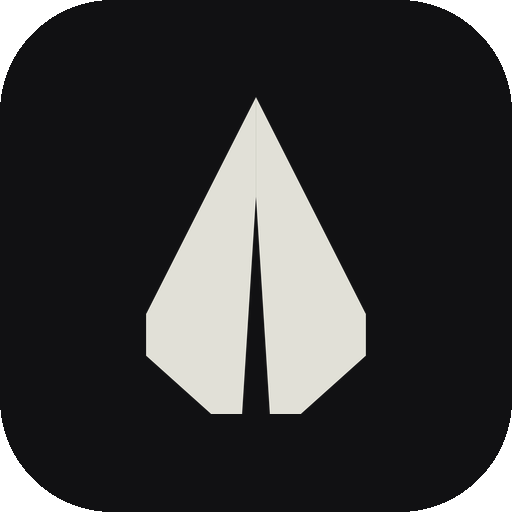
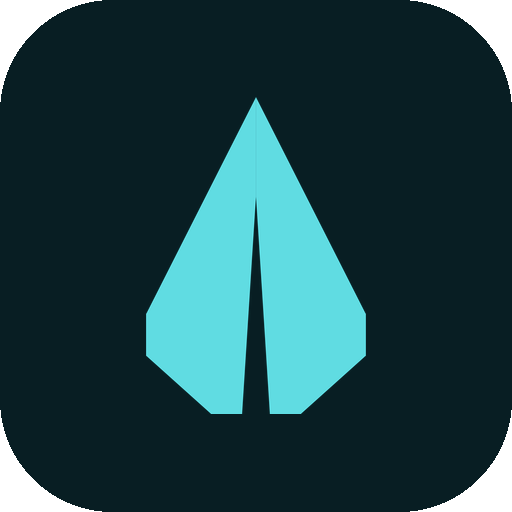
Neue Markenfarbpalette: BG #081e23, Cyan-Akzent #60dce2, Creme-Text #e1e0d7, Rot-Akzent #ED3421

Changed region(s): [[0.2812, 0.1875, 0.7188, 0.8125]]

diff --git a/assets/index-BAcUKQGq.css b/assets/index-BAcUKQGq.css
@@ -1,0 +1,1 @@
+:root{--bg:#081e23;--bg-panel:#0f2b32;--bg-input:#0c252b;--border:#1c3d44;--text:#e1e0d7;--text-dim:#7f9599;--accent:#60dce2;--accent-active:#45b3b9;--accent-dim:#1f4d52;--danger:#ed3421;--danger-active:#c72a1a;--font-brand:"Bebas Neue", "Arial Narrow", sans-serif;--lightningcss-light: ;--lightningcss-dark:initial;color-scheme:dark}*{box-sizing:border-box;-webkit-tap-highlight-color:transparent}html,body,#root{height:100%}body{background:var(--bg);color:var(--text);overscroll-behavior:none;-webkit-user-select:none;user-select:none;margin:0;font-family:-apple-system,BlinkMacSystemFont,Segoe UI,Roboto,Helvetica,Arial,sans-serif}.app{max-width:480px;min-height:100dvh;padding:env(safe-area-inset-top,16px) 16px calc(env(safe-area-inset-bottom,16px) + 16px);flex-direction:column;margin:0 auto;display:flex}.header{justify-content:space-between;align-items:center;padding:8px 4px 20px;display:flex}.header h1{font-family:var(--font-brand);letter-spacing:.1em;text-transform:uppercase;color:var(--text-dim);margin:0;font-size:19px;font-weight:400}.header-brand{align-items:center;gap:9px;display:flex}.header-logo{width:auto;height:22px;display:block}.icon-btn{color:var(--text-dim);cursor:pointer;background:0 0;border:none;padding:6px;font-size:20px}.icon-btn:active{color:var(--accent)}.display{background:var(--bg-panel);border:1px solid var(--border);text-align:center;border-radius:14px;margin-bottom:16px;padding:28px 16px}.display .status-row{justify-content:center;align-items:center;min-height:16px;margin-bottom:10px;display:flex;position:relative}.display .status{letter-spacing:.15em;text-transform:uppercase;color:var(--text-dim);font-size:12px}.display .arm-countdown{color:var(--accent);letter-spacing:.02em;font-family:SF Mono,Roboto Mono,Menlo,monospace;font-size:11px;position:absolute;top:0;right:0}.display .time{color:var(--accent);letter-spacing:.02em;text-shadow:0 0 18px #60dce259;font-family:SF Mono,Roboto Mono,Menlo,monospace;font-size:56px;font-weight:600;line-height:1.1}.display .sub{color:var(--text-dim);margin-top:8px;font-family:SF Mono,Roboto Mono,Menlo,monospace;font-size:13px}.waveform-panel{background:var(--bg-panel);border:1px solid var(--border);box-sizing:border-box;border-radius:14px;height:92px;margin-bottom:16px;padding:12px 14px 8px}.waveform-empty{text-align:center;width:100%;height:100%;color:var(--text-dim);justify-content:center;align-items:center;font-size:12px;display:flex}.waveform-bars{align-items:flex-end;gap:3px;width:100%;height:100%;display:flex;overflow:hidden}.wave-bar-col{flex-direction:column;flex:1 0 auto;justify-content:flex-end;align-items:center;gap:4px;height:100%;display:flex}.wave-bar{background:#60dce252;border-radius:2px 2px 0 0;width:5px;min-height:4px}.wave-bar.shot{background:var(--accent);box-shadow:0 0 7px #60dce2a6}.wave-bar.draw{background:var(--text-dim);box-shadow:0 0 5px #7f959980}.wave-dot{background:0 0;border-radius:50%;width:4px;height:4px}.wave-dot.on{background:var(--accent)}.wave-dot.on-draw{background:var(--text-dim)}.splits{background:var(--bg-panel);border:1px solid var(--border);border-radius:14px;max-height:220px;margin-bottom:16px;padding:4px 0;overflow-y:auto}.splits.empty{text-align:center;color:var(--text-dim);padding:22px;font-size:13px}.split-row{border-bottom:1px solid var(--border);cursor:pointer;justify-content:space-between;padding:10px 16px;font-family:SF Mono,Roboto Mono,Menlo,monospace;font-size:15px;display:flex}.split-row:last-child{border-bottom:none}.split-row:active{background:#ffffff0a}.split-row .idx,.split-row .split-val{color:var(--text-dim)}.split-row .abs-val{color:var(--text)}.split-row.is-draw{opacity:.55}.split-row.is-draw .idx{color:var(--text-dim);font-style:italic}.splits-hint{text-align:center;color:var(--text-dim);margin:-8px 0 16px;font-size:11px}.field-hint{color:var(--text-dim);margin-top:10px;font-size:12px;line-height:1.4}.main-btn{letter-spacing:.06em;text-transform:uppercase;cursor:pointer;border:none;border-radius:14px;justify-content:center;align-items:center;width:100%;margin-bottom:12px;padding:20px;font-size:17px;font-weight:700;display:flex}.main-btn.start{background:var(--accent);color:var(--bg)}.main-btn.start:active{background:var(--accent-active)}.main-btn.stop{background:var(--danger);color:var(--bg)}.main-btn.stop:active{background:var(--danger-active)}.link-row-btn{width:100%;color:var(--text-dim);text-align:center;cursor:pointer;background:0 0;border:none;padding:6px 0 2px;font-size:12px;text-decoration:underline;display:block}.row-btns{gap:10px;margin-bottom:8px;display:flex}.sec-btn{border:1px solid var(--border);background:var(--bg-input);color:var(--text-dim);letter-spacing:.04em;text-transform:uppercase;cursor:pointer;border-radius:12px;flex:1;padding:13px;font-size:13px;font-weight:600}.sec-btn:active{border-color:var(--accent);color:var(--accent)}.panel{background:var(--bg-panel);border:1px solid var(--border);border-radius:14px;margin-bottom:16px;padding:18px 16px}.panel h2{font-family:var(--font-brand);text-transform:uppercase;letter-spacing:.12em;color:var(--text-dim);margin:0 0 16px;font-size:15px;font-weight:400}.app-footer{flex-direction:column;align-items:center;gap:6px;margin-top:auto;padding:22px 0 6px;display:flex}.app-footer .footer-logo{opacity:.85;width:auto;height:20px}.app-footer .footer-brand{font-family:var(--font-brand);letter-spacing:.16em;color:var(--text-dim);text-transform:uppercase;font-size:15px}.field{margin-bottom:18px}.field:last-child{margin-bottom:0}.field-label{color:var(--text);justify-content:space-between;margin-bottom:8px;font-size:13px;display:flex}.field-label .val{color:var(--accent);font-family:SF Mono,Roboto Mono,Menlo,monospace}input[type=range]{-webkit-appearance:none;background:var(--border);border-radius:2px;outline:none;width:100%;height:4px}input[type=range]::-webkit-slider-thumb{-webkit-appearance:none;background:var(--accent);border:3px solid var(--bg-panel);width:20px;height:20px;box-shadow:0 0 0 1px var(--accent);cursor:pointer;border-radius:50%}.toggle-row{justify-content:space-between;align-items:center;display:flex}.toggle{background:var(--border);cursor:pointer;border:none;border-radius:13px;flex-shrink:0;width:44px;height:26px;padding:0;position:relative}.toggle.on{background:var(--accent-dim)}.toggle:after{content:"";background:var(--text-dim);border-radius:50%;width:20px;height:20px;transition:transform .15s,background .15s;position:absolute;top:3px;left:3px}.toggle.on:after{background:var(--accent);transform:translate(18px)}.quick-bar{background:var(--bg-panel);border:1px solid var(--border);border-radius:12px;justify-content:space-between;align-items:center;margin-top:10px;padding:12px 14px;display:flex}.quick-bar-label{color:var(--text);font-family:SF Mono,Roboto Mono,Menlo,monospace;font-size:13px}.quick-bar-controls{align-items:center;gap:12px;display:flex}.stepper{align-items:center;gap:6px;display:flex}.stepper-btn{border:1px solid var(--border);background:var(--bg-input);width:30px;height:30px;color:var(--accent);cursor:pointer;border-radius:8px;font-size:17px;font-weight:700;line-height:1}.stepper-btn:active{border-color:var(--accent)}.num-input{background:var(--bg-input);border:1px solid var(--border);color:var(--text);border-radius:10px;outline:none;width:90px;padding:10px 12px;font-family:SF Mono,Roboto Mono,Menlo,monospace;font-size:15px}.num-input:focus{border-color:var(--accent)}.history-item{background:var(--bg-panel);border:1px solid var(--border);border-radius:12px;margin-bottom:10px;padding:14px 16px}.history-item .h-top{justify-content:space-between;margin-bottom:6px;display:flex}.history-item .h-time{color:var(--accent);font-family:SF Mono,Roboto Mono,Menlo,monospace;font-size:20px;font-weight:700}.history-item .h-date{color:var(--text-dim);align-self:center;font-size:12px}.history-item .h-splits{color:var(--text-dim);word-break:break-all;font-family:SF Mono,Roboto Mono,Menlo,monospace;font-size:12px}.mic-warning{color:#f09682;background:#1e0e0c;border:1px solid #4a201a;border-radius:12px;margin-bottom:16px;padding:12px 14px;font-size:13px}.link-row{text-align:center;color:var(--text-dim);padding:10px 0;font-size:12px}.sec-btn:disabled{opacity:.4;cursor:default}

diff --git a/index.html b/index.html
@@ -3,7 +3,7 @@
   <head>
     <meta charset="UTF-8" />
     <meta name="viewport" content="width=device-width, initial-scale=1, viewport-fit=cover, user-scalable=no" />
-    <meta name="theme-color" content="#111113" />
+    <meta name="theme-color" content="#081e23" />
     <meta name="mobile-web-app-capable" content="yes" />
     <meta name="apple-mobile-web-app-capable" content="yes" />
     <meta name="apple-mobile-web-app-status-bar-style" content="black-translucent" />
@@ -15,8 +15,8 @@
     <link rel="preconnect" href="https://fonts.gstatic.com" crossorigin />
     <link href="https://fonts.googleapis.com/css2?family=Bebas+Neue&display=swap" rel="stylesheet" />
     <title>Shot Timer</title>
-    <script type="module" crossorigin src="./assets/index-CmeJSgP4.js"></script>
-    <link rel="stylesheet" crossorigin href="./assets/index-7565yadq.css">
+    <script type="module" crossorigin src="./assets/index-BUWd61P-.js"></script>
+    <link rel="stylesheet" crossorigin href="./assets/index-BAcUKQGq.css">
   </head>
   <body>
     <div id="root"></div>
